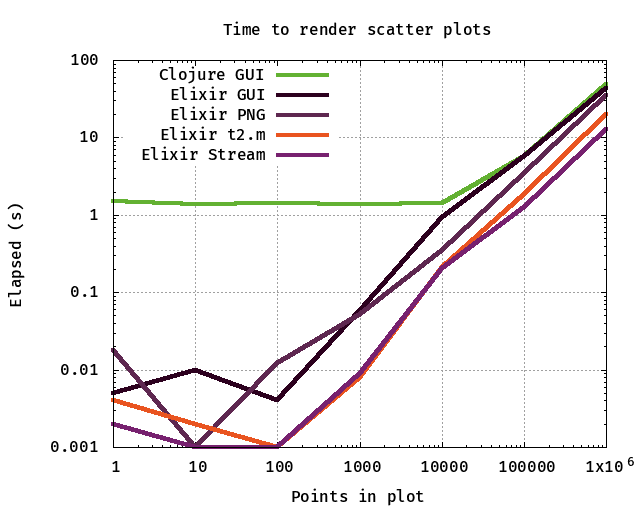
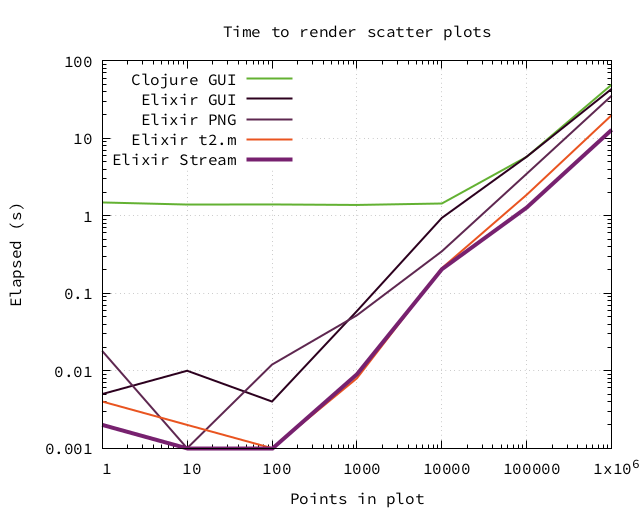
Smooth PNG with pngcairo term

diff --git a/README.md b/README.md
@@ -150,10 +150,10 @@ G.plot([
   ~w(set key left top)a,
   ~w(set logscale xy)a,
   ~w(set grid xtics ytics)a,
-  ~w(set style line 1 lw 4 lc '#63b132')a,
-  ~w(set style line 2 lw 4 lc '#2C001E')a,
-  ~w(set style line 3 lw 4 lc '#5E2750')a,
-  ~w(set style line 4 lw 4 lc '#E95420')a,
+  ~w(set style line 1 lw 2 lc '#63b132')a,
+  ~w(set style line 2 lw 2 lc '#2C001E')a,
+  ~w(set style line 3 lw 2 lc '#5E2750')a,
+  ~w(set style line 4 lw 2 lc '#E95420')a,
   ~w(set style line 5 lw 4 lc '#77216F')a,
   [:plot, G.list(
     ["-", :title, "Clojure GUI", :with, :lines, :ls, 1],
